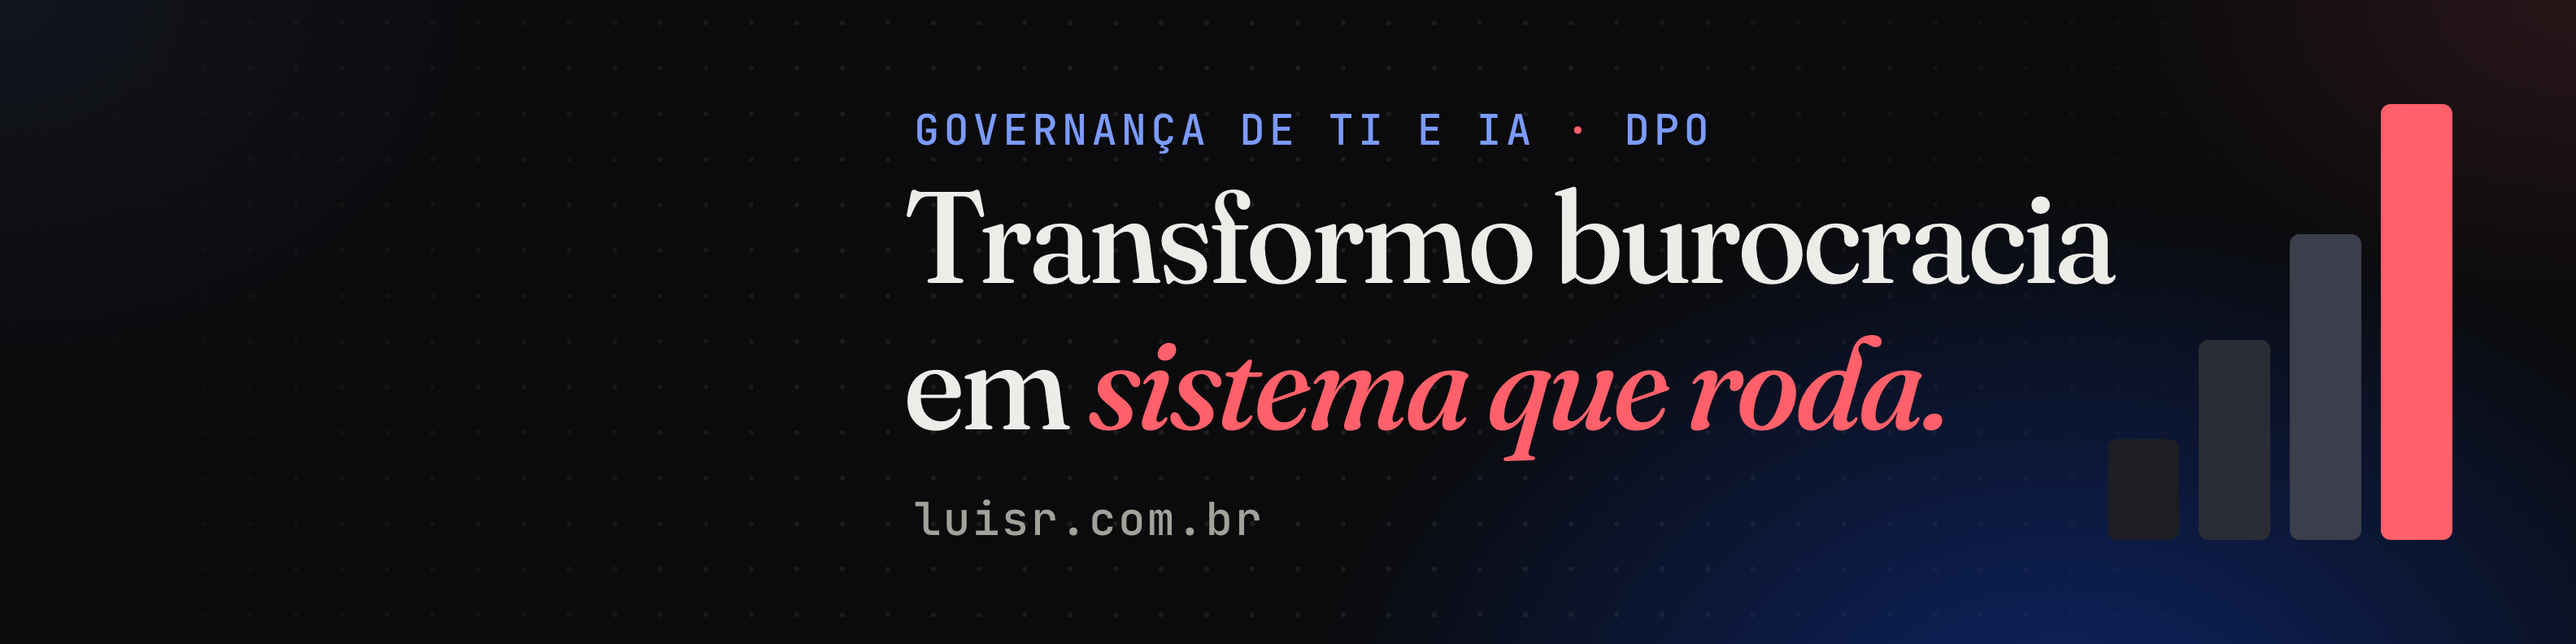
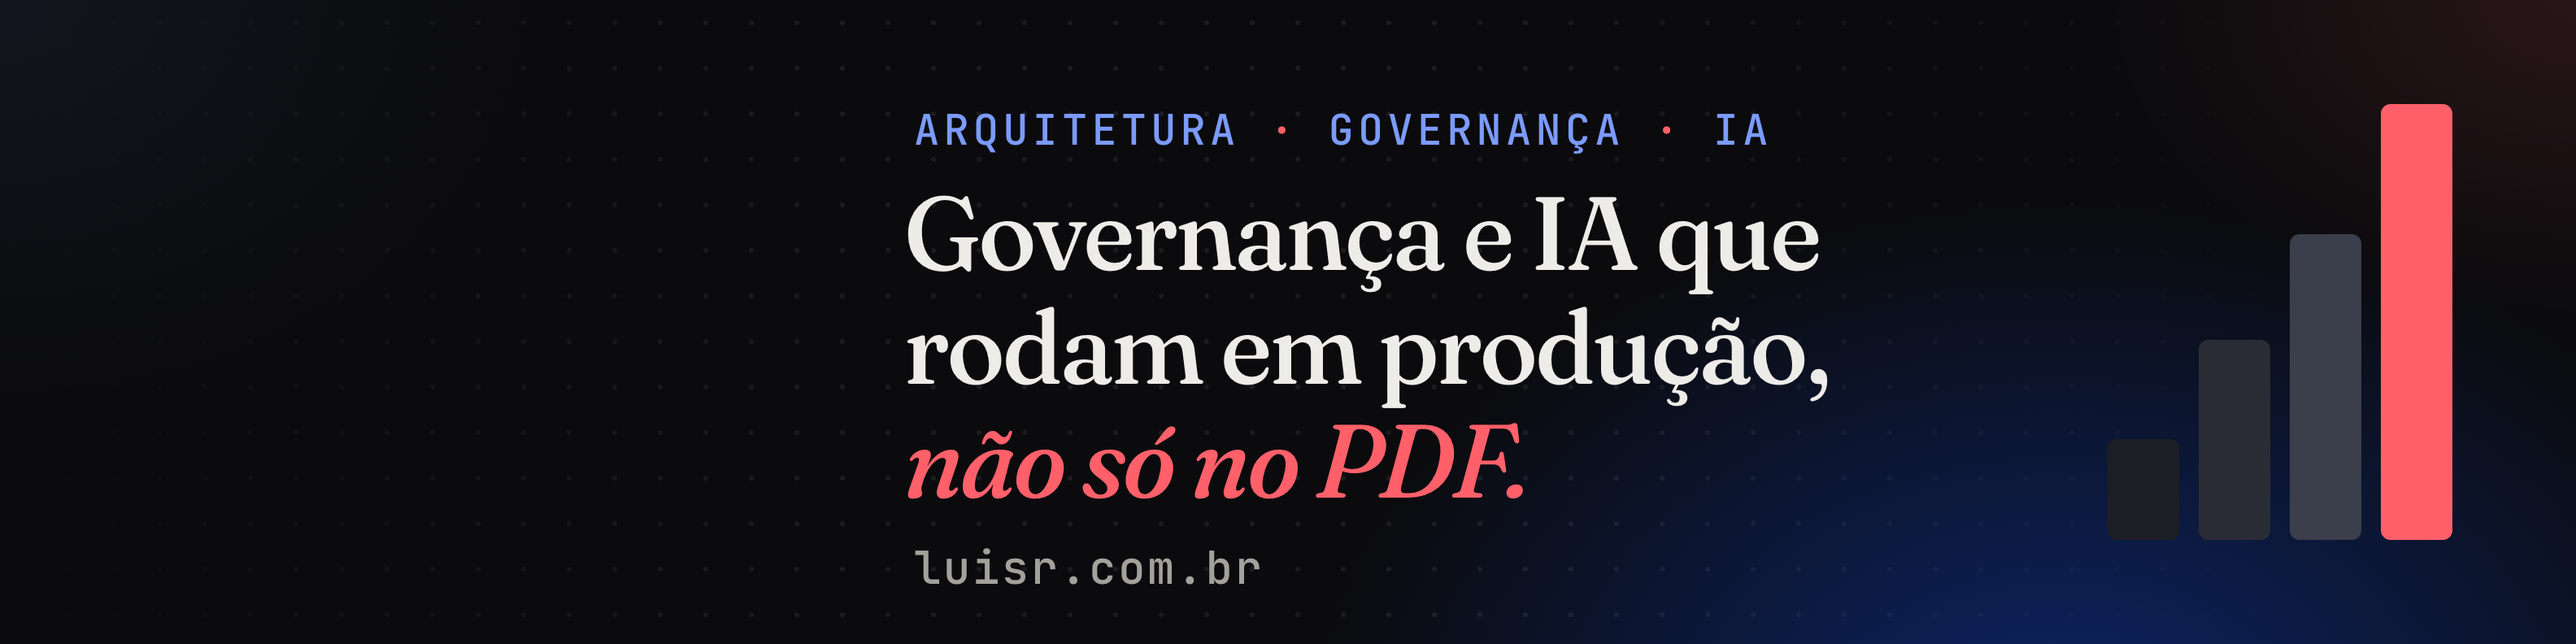
Bring the LinkedIn kit in line with the new site pitch (#12)
The cover, headline and About now lead with the same line as the site
("Governança e IA que rodam em produção, não só no PDF") and put the
engineering side up front: architecture in the headline, the cover
label and the top skills. The About lists the problems in the buyer's
words and only cites proof already published on the site. It keeps the
CTO-track framing and ends in a conversation, not a service offer.

Changed region(s): [[0.3438, 0.4848, 0.75, 0.9091], [0.3438, 0.2727, 0.8438, 0.4545], [0.3438, 0.1818, 0.6875, 0.2424]]

diff --git a/brand/linkedin/src/cover.html b/brand/linkedin/src/cover.html
@@ -4,7 +4,7 @@
  *
  * No app do celular a capa aparece com ~24% do tamanho (375px de largura),
  * então nada aqui tem menos de 26px: vira ~6px no celular e ~13px no
- * desktop. Título a 80px fica ~19px no celular. A foto de perfil cobre a
+ * desktop. Título a 64px fica ~15px no celular. A foto de perfil cobre a
  * metade de baixo da faixa x<520 nos dois formatos, por isso o texto começa
  * em x=560.
  */
@@ -21,14 +21,14 @@ body{background:
           mask-image:linear-gradient(90deg, transparent 0%, #000 32%, #000 60%, transparent 90%)}
 .label{position:absolute;left:562px;top:62px;font-size:26px;letter-spacing:.1em}
 .label b{color:#ff606a;font-weight:500}
-h1{position:absolute;left:556px;top:100px;font-size:80px;line-height:90px}
-.url{position:absolute;left:562px;top:300px;font-family:"JetBrains Mono",monospace;font-weight:500;font-size:28px;letter-spacing:.04em;color:#a3a19b}
+h1{position:absolute;left:556px;top:108px;font-size:64px;line-height:70px}
+.url{position:absolute;left:562px;top:330px;font-family:"JetBrains Mono",monospace;font-weight:500;font-size:28px;letter-spacing:.04em;color:#a3a19b}
 .bars{right:76px;bottom:64px;gap:12px;height:268px}
 .bars i{width:44px}
 </style></head><body>
 <div class="dots"></div>
-<p class="label">Governança de TI e IA <b>·</b> DPO</p>
-<h1 class="display">Transformo burocracia<br>em <em>sistema que roda.</em></h1>
+<p class="label">Arquitetura <b>·</b> Governança <b>·</b> IA</p>
+<h1 class="display">Governança e IA que<br>rodam em produção,<br><em>não só no PDF.</em></h1>
 <p class="url">luisr.com.br</p>
 <div class="bars"><i style="height:23%"></i><i style="height:46%"></i><i style="height:70%"></i><i style="height:100%"></i></div>
 </body></html>

diff --git a/brand/linkedin/perfil.md b/brand/linkedin/perfil.md
@@ -1,15 +1,23 @@
-# LinkedIn: o técnico que faz a governança rodar
+# LinkedIn: governança e IA que rodam em produção
 
 O LinkedIn, o site e o GitHub contam a mesma história com a mesma frase:
-**"Transformo burocracia em sistema que roda."** Ela está na capa, no
-título, no começo do "Sobre" e no topo do site.
+**"Governança e IA que rodam em produção, não só no PDF."** Ela está na capa,
+no título e no topo do site. Em inglês: "Governance and AI that run in
+production, not just on paper."
 
-A meta de longo prazo é liderança técnica (CTO). Por isso o perfil mostra
-escopo de liderança e decisões, e não vende serviço avulso.
+A lógica é a mesma do site (PR #11): o resultado vem primeiro, o engenheiro é
+a base ("sou engenheiro antes de ser gestor"), os problemas aparecem do jeito
+que a empresa fala e a prova vem em número.
 
-Situação: aplicado no LinkedIn em 09/11/2026 (capa, título, Sobre, cargo
-atual e competências), só no perfil em português. O perfil em inglês ainda
-tem a versão de 06/11/2026, com "Construo os sistemas que preciso governar".
+"Rodar" continua sendo a palavra da marca. A frase anterior, "Do código ao
+processo, eu faço rodar", ficou de 13/11 a 16/11/2026, e antes dela era
+"Transformo burocracia em sistema que roda".
+
+A meta de longo prazo é liderança técnica (CTO). Por isso o LinkedIn não copia
+o tom de venda do site: mostra escopo de liderança e decisões, e termina em
+"me chama para conversar", sem oferecer serviço avulso.
+
+Situação: proposta de 17/11/2026, ainda não aplicada no LinkedIn.
 
 ---
 
@@ -18,64 +26,69 @@ tem a versão de 06/11/2026, com "Construo os sistemas que preciso governar".
 `brand/linkedin/cover.png` (3168×792, ou seja, 1584×396 em 2x). O código-fonte
 está em `brand/linkedin/src/cover.html`. Para regerar: `npm run brand -- linkedin`.
 
+Rótulo "Arquitetura · Governança · IA" e o título em três linhas, a 64px
+(fica ~15px no app do celular).
+
 ## 2. Título (headline)
 
-> Gerente de Governança de TI e IA e DPO na Tech for Humans | Transformo burocracia em sistema que roda, com IA quando ajuda e sem quando não | Mestrando em IA na UNIFEI
+> Gerente de Governança de TI e IA e DPO na Tech for Humans | Governança e IA que rodam em produção, não só no PDF | Arquitetura de aplicações | Mestrando em IA na UNIFEI
 
-O cargo vem primeiro porque é o que recrutador e busca leem. A frase vem logo
-depois.
+Em inglês:
+
+> IT & AI Governance Manager and DPO at Tech for Humans | Governance and AI that run in production, not just on paper | Application architecture | AI Master's student at UNIFEI
+
+O cargo vem primeiro porque é o que recrutador e busca leem. "Arquitetura de
+aplicações" entra no título para o lado técnico aparecer na busca.
 
 ## 3. Sobre
 
-> Sou o técnico que gosta da parte que ninguém quer.
+> Governança e IA que rodam em produção, não só no PDF.
 >
-> LGPD, ISO, auditoria, política de acesso. Onde muita gente vê papelada, eu vejo um processo que dá pra automatizar. Então eu construo a ferramenta e o processo junto. Às vezes com IA, às vezes sem. Antes eu pergunto onde ela ajuda e quem responde se der errado.
+> Sou engenheiro antes de ser gestor. Desenho a arquitetura, entro no código e coloco LGPD, ISO 27001 e IA dentro da esteira de desenvolvimento. A conformidade vira rotina do time, e a IA só entra onde alguém responde pelo resultado.
 >
-> Cheguei aqui meio por acidente. Em 2021 ganhei um hackathon que pedia praticamente o meu TCC do técnico, e o prêmio era um estágio na Tech for Humans. Fui dev fullstack, topei DevOps sem saber DevOps, montei a área do zero e virei DPO no caminho. Hoje sou Gerente de Governança de TI e IA, com um time de 8 pessoas.
+> Os problemas que eu mais resolvo:
+> • Sistema que cresceu sem desenho e cada mudança quebra outra coisa. Mapeio o que existe e desenho a arquitetura do próximo passo: integrações, serviços, filas e dados.
+> • Auditoria chegando e as evidências espalhadas em planilha. LGPD, ISO 27001 e ISO 27701 viram processo e ferramenta dentro da esteira.
+> • Todo mundo quer IA, mas ninguém sabe onde ela pode decidir sozinha. Decido tarefa por tarefa até onde ela vai, com um controle amarrado em cada saída.
+> • Conta da nuvem subindo e deploy dependendo de uma pessoa. Fundei a área de DevOps da empresa e hoje respondo também pelo FinOps.
 >
-> O que saiu disso até agora:
-> • Streamline: a plataforma de automação de processos que nasceu do meu TCC, virou a plataforma oficial da empresa e já roda mais de 50 processos. É open source.
-> • A área de DevOps da empresa, do CI/CD à observabilidade.
-> • LGPD, ISO 27001 e ISO 27701 rodando dentro do ciclo de desenvolvimento.
-> • A Régua de autonomia, que levei pro HackTown 2026: seis perguntas que dizem quanta autonomia a IA pode ter numa tarefa.
+> Cheguei aqui meio por acidente. Em 2021 ganhei um hackathon que pedia praticamente o meu TCC do técnico, e o prêmio era um estágio na Tech for Humans. Fui dev fullstack, topei DevOps sem saber DevOps, montei a área do zero e virei DPO no caminho. Hoje lidero um time de 8 pessoas em cloud, segurança e processos.
 >
-> No mestrado em IA na UNIFEI, pesquiso chatbots com LLM no ensino superior: quando a IA ensina e quando ela só responde. Já são dois artigos no IEEE IISA.
+> O que dá para conferir: o Streamline, que nasceu do meu TCC, virou a plataforma oficial da empresa, roda mais de 50 processos e é open source. A Régua de autonomia, que levei pro HackTown 2026, diz em seis perguntas quanta autonomia a IA pode ter numa tarefa. E no mestrado em IA na UNIFEI já são dois artigos no IEEE IISA, pesquisando quando a IA ensina e quando ela só responde.
 >
 > Escrevo a Big Rick no Substack, explicando IA sem jargão. O resto está em luisr.com.br.
 >
-> Se você quer conversar sobre governança, IA ou liderança técnica, me chama.
+> Se você quer conversar sobre arquitetura, governança ou IA, me chama.
 
 ## 4. Experiência: Gerente de Governança de TI e IA (atual)
-
-A descrição atual usa jargão ("liderança executiva", "orquestrador", "AI
-TRiSM", "validação macro") e não tem nenhum resultado concreto. Proposta:
 
 > Lidero a governança de tecnologia e IA da empresa e sou o DPO. São quatro frentes, com um time de 8 pessoas: DevOps e cloud, segurança e compliance, processos e inovação.
 >
 > Na prática:
+> • Desenho e valido a arquitetura das aplicações novas antes de irem pro ar.
 > • Coloco IA em produção com limite de autonomia e alguém respondendo por cada saída. A Régua de autonomia nasceu daqui.
 > • LGPD, ISO 27001 e ISO 27701 entram na esteira como processo e ferramenta.
 > • Respondo pelo custo de nuvem e tecnologia da empresa (FinOps).
-> • Valido as arquiteturas novas antes de irem pro ar.
 
 **Falta você completar:** um ou dois números deixam isso muito mais forte para
 quem contrata liderança. Por exemplo: quanto o FinOps economizou, quais
-auditorias ou certificações passaram, quantos agentes de IA estão em produção
-e quantos processos o Streamline roda hoje. Não coloquei nenhum número que eu
-não tenha visto em algum lugar.
+auditorias ou certificações passaram e quantos agentes de IA estão em
+produção. Não coloquei nenhum número que não esteja publicado no site.
 
 ## 5. Competências principais
 
-**Governança de TI • Liderança de equipe • IA generativa • LGPD • DevOps**
+**Arquitetura de software • Governança de TI • IA generativa • LGPD • Liderança de equipe**
 
-"Liderança de equipe" entra no lugar de "Azure", porque é a competência que um
-caminho para CTO precisa mostrar. Azure continua nas experiências.
+"Arquitetura de software" entra no lugar de "DevOps" para o lado técnico
+aparecer entre as cinco primeiras. DevOps e Azure continuam nas experiências e
+na lista completa de competências.
 
 ## 6. Em destaque
 
-Fica como está. O card do site passa a mostrar o título novo ("Governança de
-TI e IA que roda") assim que o site for publicado. Se o LinkedIn mantiver o
-card antigo em cache, remova o link e adicione de novo.
+O card do site continua. Se o LinkedIn mostrar a prévia antiga em cache,
+remova o link e adicione de novo. Vale pôr a Régua de autonomia
+(`https://luisr.com.br/ia`) ao lado, porque ela prova o "IA com limite" e dá
+para testar.
 
 ## 7. Contato
 
